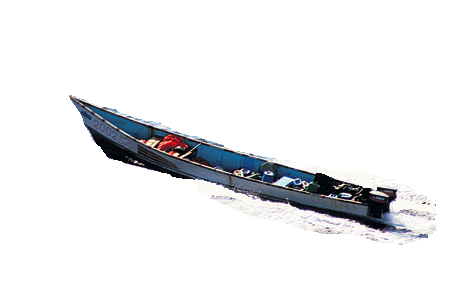
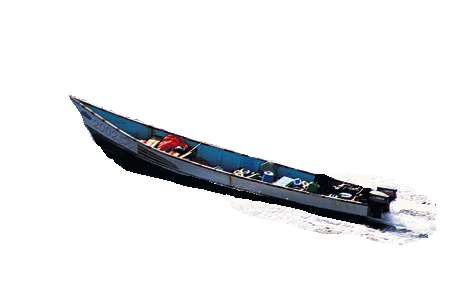
enemy boats displaying sunk properties

diff --git a/js/app.js b/js/app.js
@@ -28,16 +28,16 @@ const imgAddress = {
       reset: `./img/tender.png`
    },
    'traw': {
-      sunk:`some image of trawler sunk`,
-      reset:``
+      sunk:`./img/emTrawler_sunk.png`,
+      reset:`./img/emTrawler.png`
    },
    'toon': {
-      sunk:`image of pontoon sunk`,
-      reset:`org img toon`
+      sunk:`./img/olbusted_sunk.png`,
+      reset:`./img/olbusted.png`
    },
    'skif': {
-      sunk:`skiff blown to smitheriens`,
-      reset: `org img skif`
+      sunk:`./img/skiff_sunk.png`,
+      reset: `./img/skiff.png`
    }
 }
 
@@ -292,6 +292,8 @@ class Boat {
       } else {
          if (dmgCnt === this.length) {
             console.log(imgAddress[imgId])
+            $(`#${imgId}`).attr('src',`${imgAddress[imgId].sunk}`)
+            $(`#${imgId}`).css('background',`rgba(255,34,35,0.5)`)
          }
       }
    }
@@ -522,7 +524,7 @@ const askReset = () => {
 }
 
 const resetBoard = () => {
-   let imgArr = ['cat', 'fish', 'dingy']
+   let imgArr = ['cat', 'fish', 'dingy', `traw`, `toon`, `skif`]
    for (let img of imgArr) {
       $(`#${img}`).addClass(`notplaced`);
       $(`#${img}`).attr(`src`,`${imgAddress[img].reset}`)
